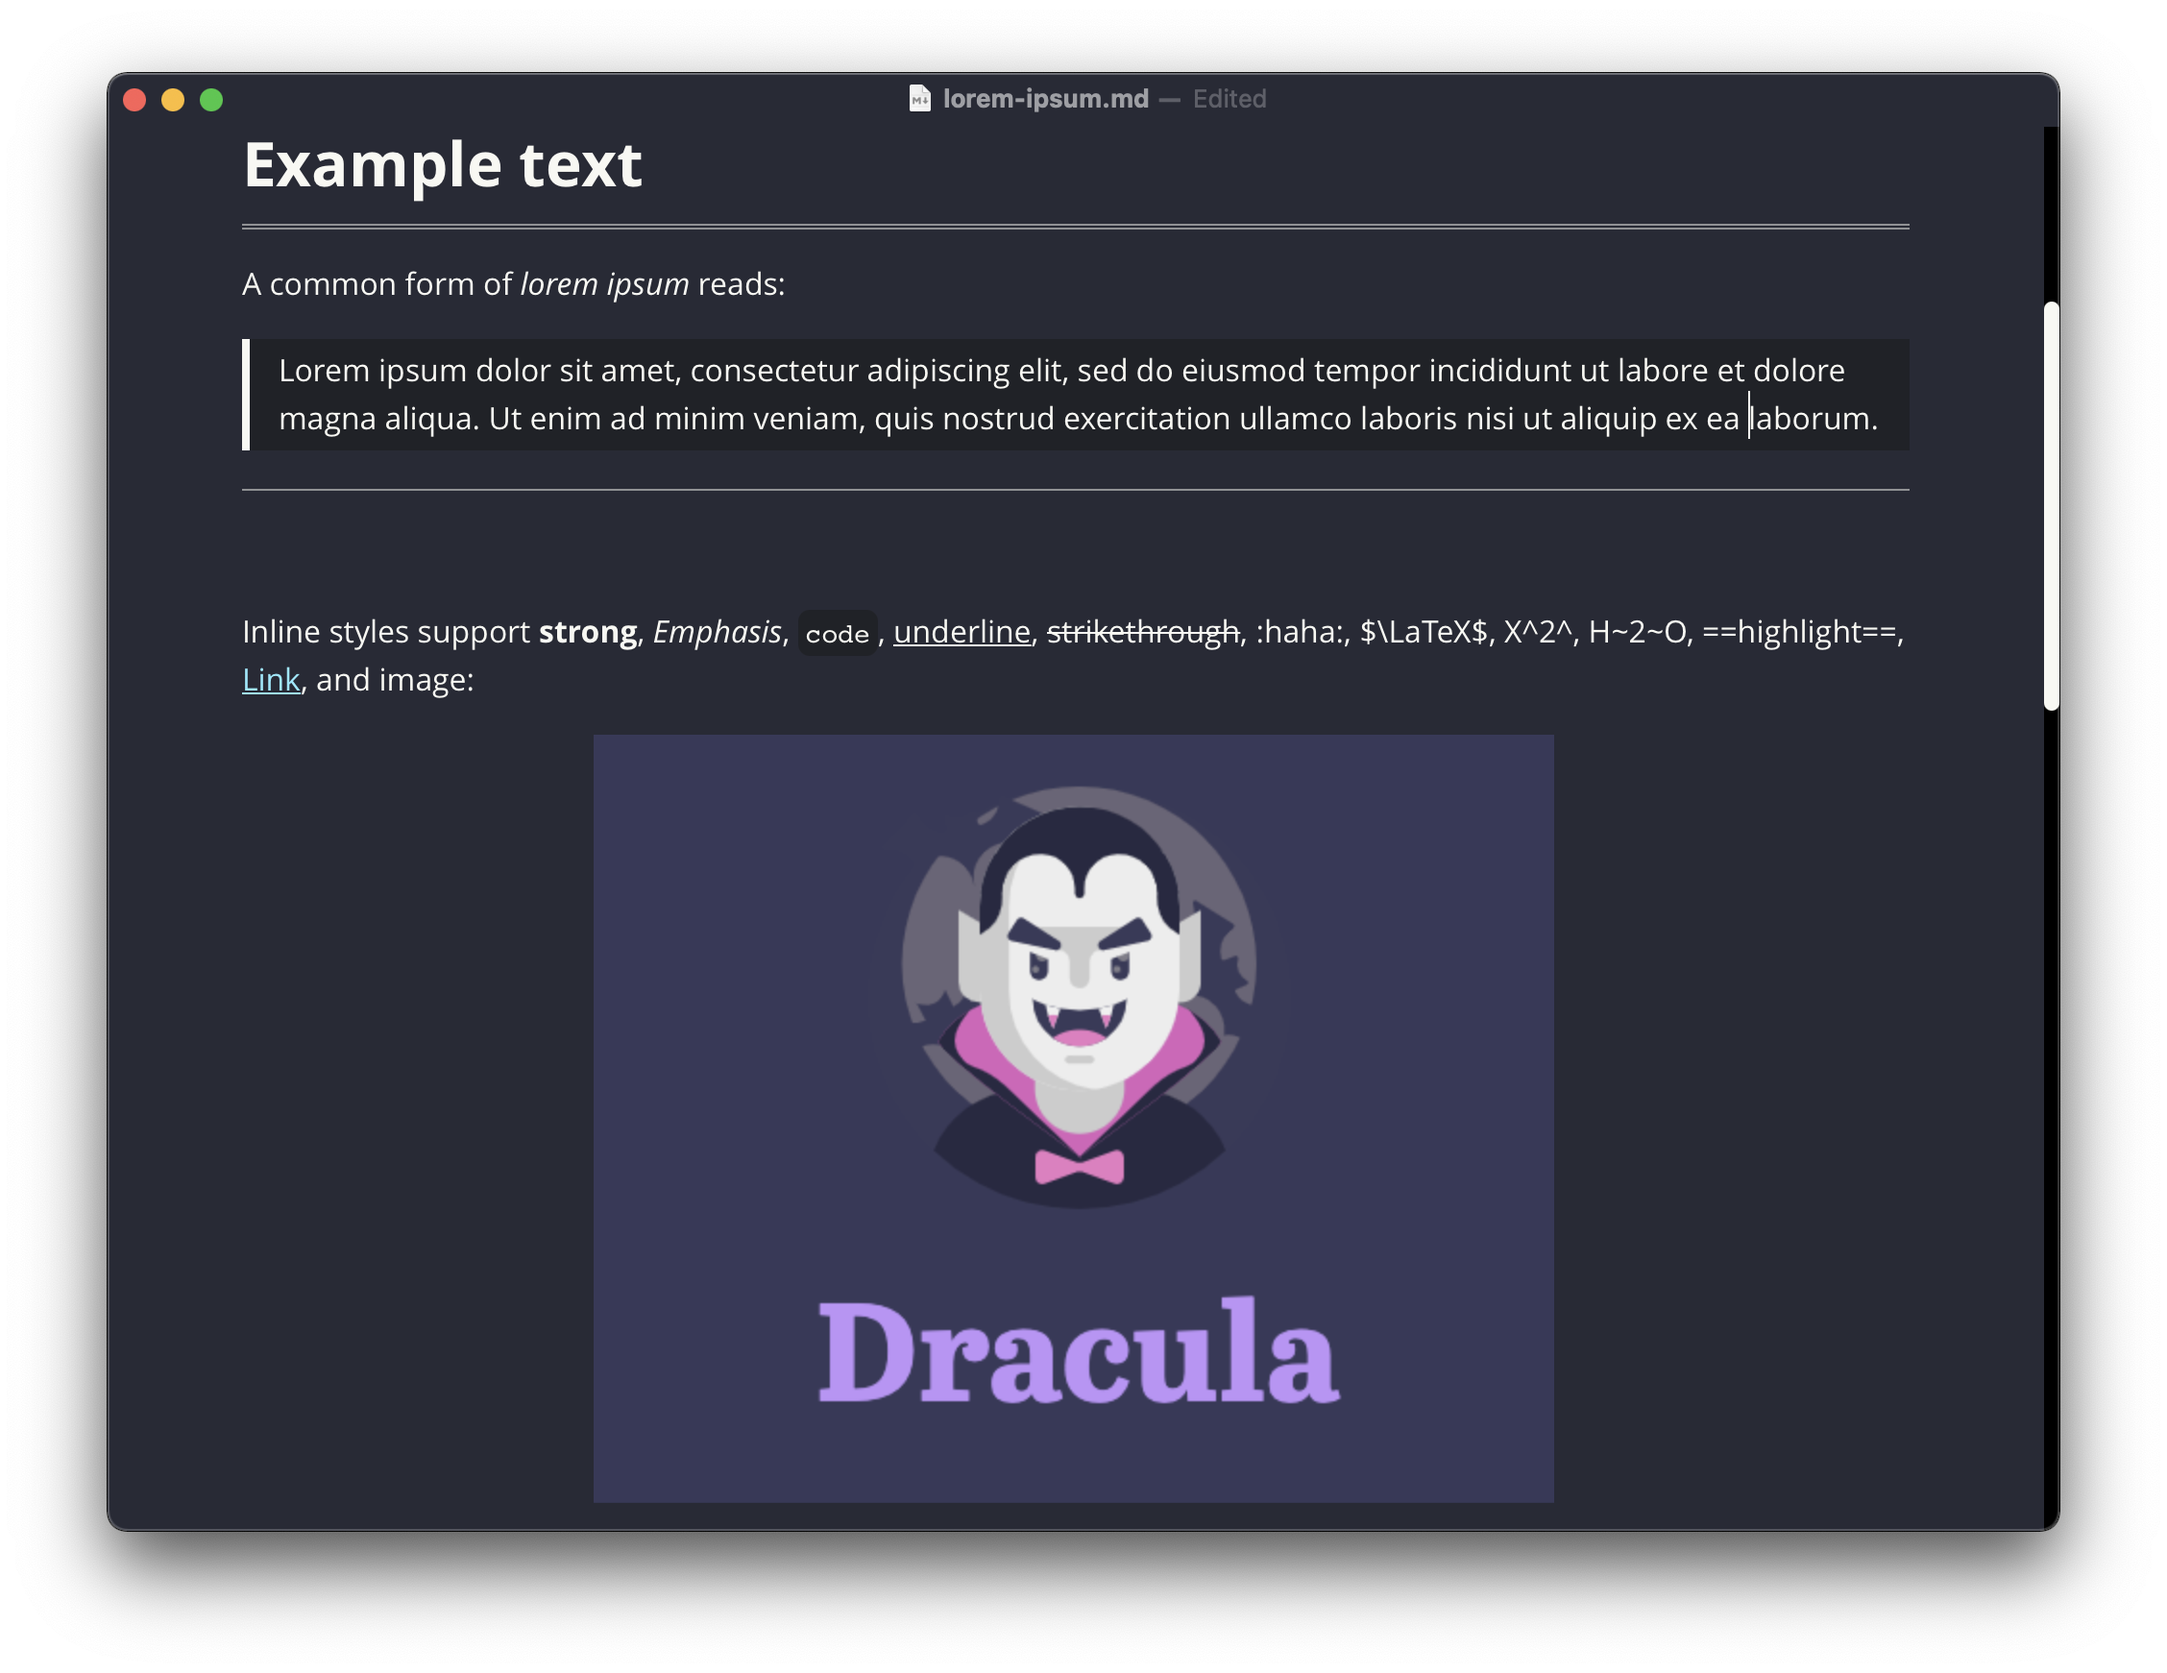
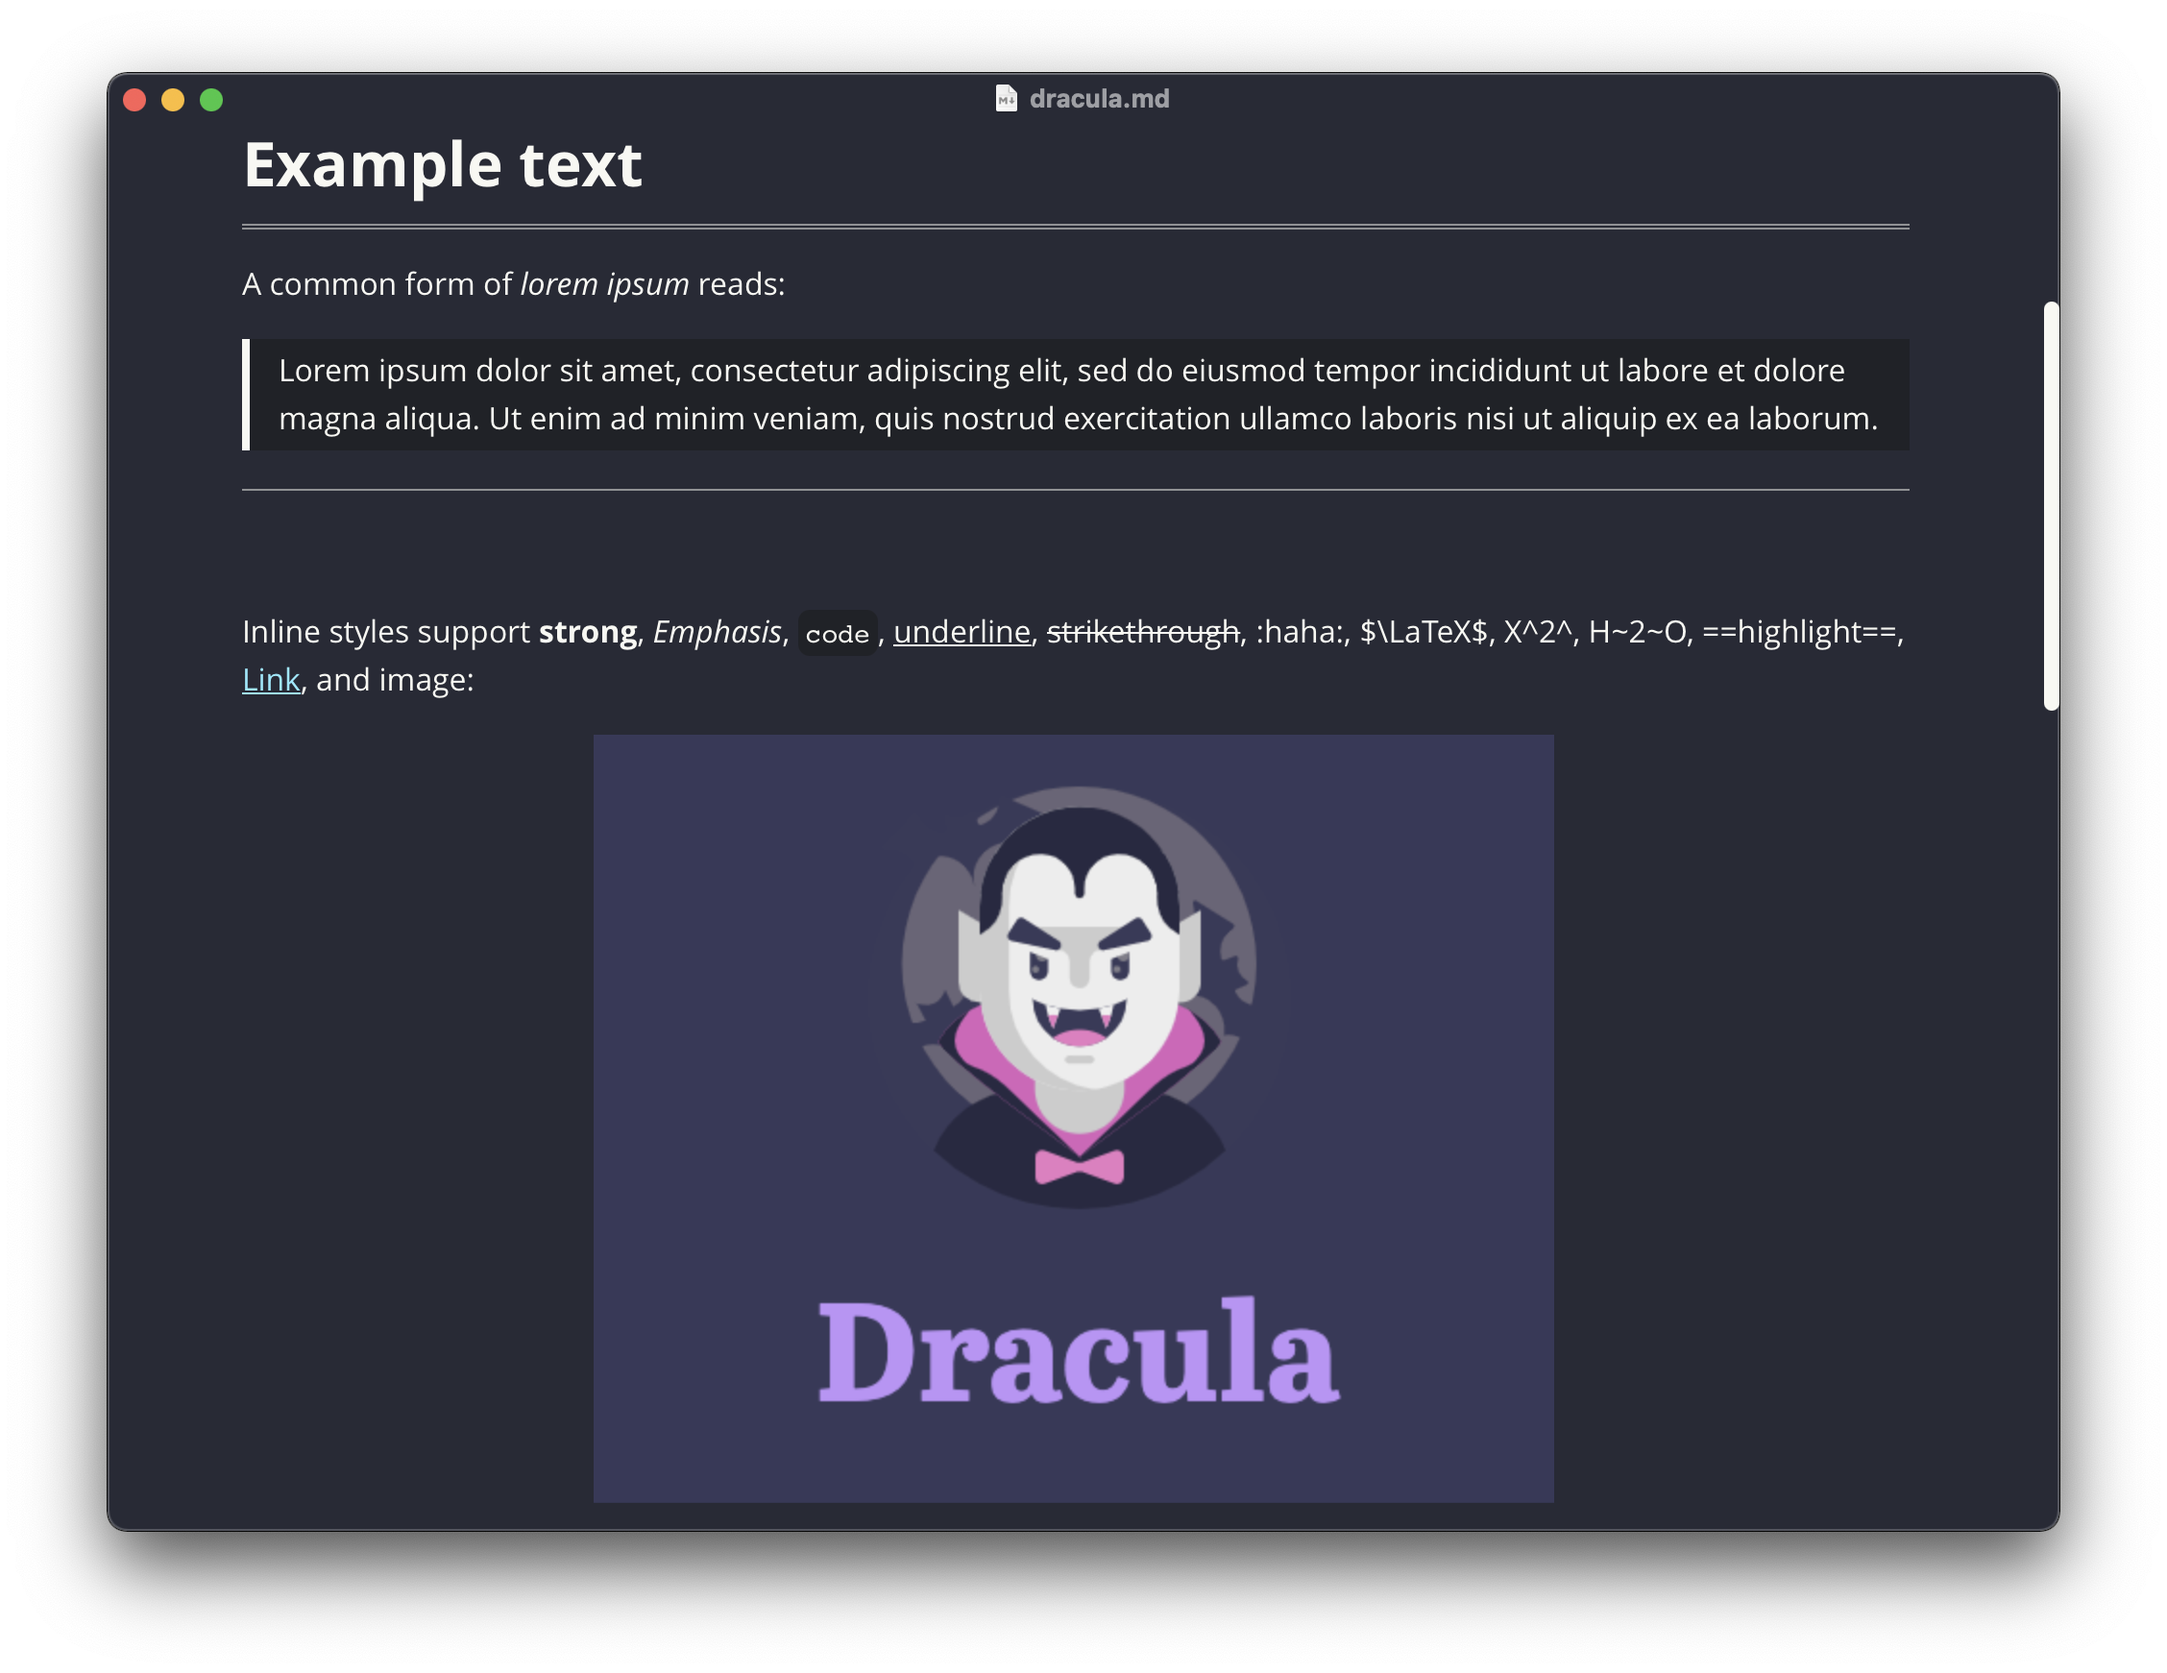
Fixed scrollbar color. Updated screenshots.

Changed region(s): [[0.9309, 0.434, 0.9619, 0.899], [0.4034, 0.031, 0.5585, 0.062], [0.9309, 0.062, 0.9619, 0.186]]

diff --git a/theme/dracula.css b/theme/dracula.css
@@ -89,7 +89,7 @@
   --primary-btn-border-color: transparent;
   --primary-btn-text-color: var(--text-color2);
   /* implicit sidebar color */
-  --side-bar-bg-color: var(--bg-color2);
+  --side-bar-bg-color: var(--bg-color1);
   --control-text-color: var(--text-color2);
   /* implicit text color */
   --text-color: var(--text-color1);
@@ -983,7 +983,7 @@ footer.ty-footer {
 ::-webkit-scrollbar {
   width: 8px;
   padding-right: 10px;
-  background-color: black;
+  background-color: var(--scrollbar-track-color);
 }
 
 /* scrollbar track */
